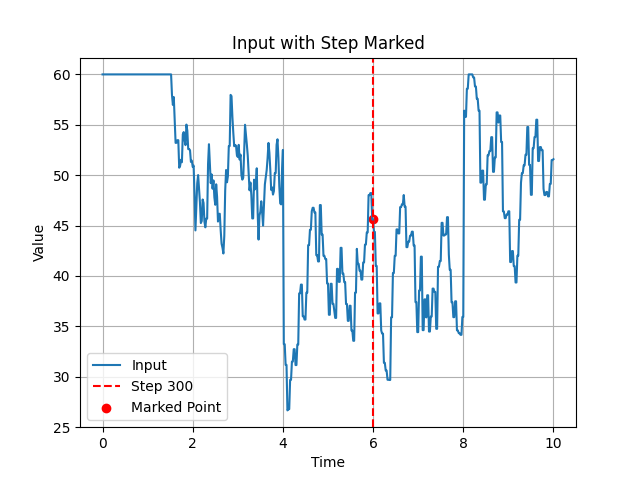
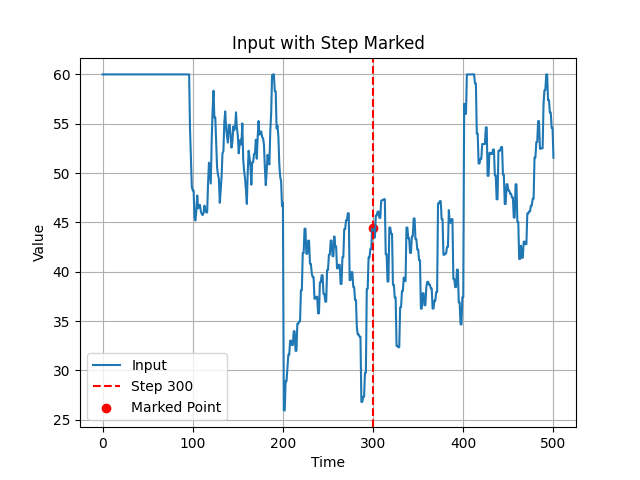
Jialiang: revise figure generalization

diff --git a/src/examples/actuator_delay_attack/linear/motor_actuator_delay.py b/src/examples/actuator_delay_attack/linear/motor_actuator_delay.py
@@ -166,3 +166,172 @@ if __name__ == "__main__":
     plt.savefig('/Users/fjl2401/CPSim/src/examples/actuator_delay_attack/results/linear/motor/input_{}.png'.format(
         'no_attack' if not attack else 'attack'))
     plt.show()
+=======
+# Ref: https://ctms.engin.umich.edu/CTMS/index.php?example=MotorSpeed&section=ControlPID
+
+import numpy as np
+
+from cpsim import Simulator
+from cpsim.controllers.PID import PID
+
+# system dynamics
+J = 0.01  # moment of inertia of the rotor
+b = 0.1  # motor viscous friction constant
+Ke = 0.01  # electromotive force constant
+Kt = 0.01  # motor torque constant
+R = 1  # electric resistance
+L = 0.5  # electric inductance
+
+A = [[-b / J, Kt / J], [-Ke / L, -R / L]]
+B = [[0], [1 / L]]
+C = [[1, 0]]
+
+x_0 = np.array([0.0, 0.0])
+
+# utils parameters
+P = 19
+I = 37
+D = 0.1
+
+control_limit = {
+    'lo': np.array([0]),
+    'up': np.array([60])
+}
+
+
+def envolve_sim(sim, ref, max_index, attack=False):
+    if attack:
+        for i in range(0, max_index + 1):
+            assert sim.cur_index == i
+            sim.update_current_ref(ref[i])
+            u = delay_attack.launch(sim.cur_u, sim.cur_index, sim.inputs)
+            sim.evolve(u=u)
+        # print results
+    else:
+        for i in range(0, max_index + 1):
+            assert sim.cur_index == i
+            sim.update_current_ref(ref[i])
+            sim.evolve()
+
+
+class Controller:
+    def __init__(self, dt):
+        self.dt = dt
+        self.pid = PID(P, I, D, current_time=-dt)
+        self.pid.setWindup(100)
+        self.pid.setSampleTime(dt)
+        self.set_control_limit(control_limit['lo'], control_limit['up'])
+
+    def update(self, ref: np.ndarray, feedback_value: np.ndarray, current_time) -> np.ndarray:
+        self.pid.set_reference(ref[0])
+        cin = self.pid.update(feedback_value[0], current_time)
+        return np.array([cin])
+
+    def set_control_limit(self, control_lo, control_up):
+        self.control_lo = control_lo
+        self.control_up = control_up
+        self.pid.set_control_limit(self.control_lo[0], self.control_up[0])
+
+    def clear(self):
+        self.pid.clear(current_time=-self.dt)
+
+
+class MotorSpeed(Simulator):
+    """
+            States: (2,)
+                x[0]: the rotational speed of the shaft
+                x[1]: electric current
+            Control Input: (1,)
+                u[0]: voltage source
+            Output:  (1,)
+                y[0]: the rotational speed of the shaft
+                Output Feedback
+            Controller: PID
+            """
+
+    def __init__(self, name, dt, max_index, noise=None):
+        super().__init__('Motor Speed ' + name, dt, max_index)
+        self.linear(A, B, C)
+        controller = Controller(dt)
+        settings = {
+            'init_state': x_0,
+            'feedback_type': 'output',
+            'controller': controller
+        }
+        if noise:
+            settings['noise'] = noise
+        self.sim_init(settings)
+
+
+if __name__ == "__main__":
+    max_index = 500
+    dt = 0.02
+    ref = [np.array([5])] * 201 + [np.array([4])] * 200 + [np.array([5])] * 100
+    noise = {
+        'process': {
+            'type': 'white',
+            'param': {'C': np.eye(2) * 0.1}
+        }
+    }
+
+    from cpsim.actuator_attack import ActuatorAttack
+
+    sim = MotorSpeed('test', dt, max_index, noise)
+    delay_attack = ActuatorAttack('delay', 10, 300, simulator=sim)
+    attack = False
+    for i in range(0, max_index + 1):
+        assert sim.cur_index == i
+        sim.update_current_ref(ref[i])
+        if attack:
+            u = delay_attack.launch(sim.cur_u, sim.cur_index, sim.inputs)
+            print('this is u', u)
+            sim.evolve(u)
+        else:
+            sim.evolve()
+
+    import matplotlib.pyplot as plt
+
+    # t_arr = np.linspace(0, 10, max_index + 1)
+    step_arr = np.arange(0, max_index + 1)
+    ref = [x[0] for x in sim.refs[:max_index + 1]]
+    y_arr = [x[0] for x in sim.outputs[:max_index + 1]]
+
+    # figure 1 plot output and reference
+    # 绘制输出值和参考值
+    plt.figure()
+    plt.plot(step_arr, y_arr, label="Output")
+    plt.plot(step_arr, ref, label="Reference")
+
+    # 在第300个步长添加标记
+    step_index = 300
+    plt.axvline(x=step_index, color='red', linestyle='--', label=f"Step {step_index}")
+    plt.scatter(step_index, y_arr[step_index], color='red', label="Marked Point")
+
+    # 图例和标题
+    plt.legend()
+    plt.title("Output and Reference with Step Marked")
+    plt.xlabel("Time")
+    plt.ylabel("Value")
+    plt.grid()
+    plt.savefig('/Users/fjl2401/CPSim/src/examples/actuator_delay_attack/results/linear/motor/state_{}.png'.format(
+        'no_attack' if not attack else 'attack'))
+    plt.show()
+
+    # figure 2 plot input
+    u_arr = [x[0] for x in sim.inputs[:max_index + 1]]
+    plt.figure()
+    plt.plot(step_arr, u_arr, label="Input")
+
+    # 在第300个步长添加标记
+    plt.axvline(x=step_index, color='red', linestyle='--', label=f"Step {step_index}")
+    plt.scatter(step_index, u_arr[step_index], color='red', label="Marked Point")
+
+    # 图例和标题
+    plt.legend()
+    plt.title("Input with Step Marked")
+    plt.xlabel("Time")
+    plt.ylabel("Value")
+    plt.grid()
+    plt.savefig('/Users/fjl2401/CPSim/src/examples/actuator_delay_attack/results/linear/motor/input_{}.png'.format(
+        'no_attack' if not attack else 'attack'))
+    plt.show()

diff --git a/src/cpsim/actuator_attack.py b/src/cpsim/actuator_attack.py
@@ -1,3 +1,4 @@
+<<<<<<< HEAD
 import numpy as np
 
 
@@ -78,3 +79,79 @@ if __name__ == "__main__":
     # attack1 = Attack('bias', np.array([1, 0, 0, 0]), 0)
     # attack2 = Attack('delay', np.array([1, 0, 0, 0]), 0)
     # print(attack1.get_C_filter())
+=======
+import numpy as np
+
+
+class ActuatorAttack:
+    def __init__(self, category, param, start_index, end_index=None, simulator=None):
+        """
+        category: 'bias', 'delay', 'replay'  todo: 'stealthy'
+        param
+        """
+        self.cat = category
+        self.param = param
+        self.start_index = start_index
+        self.end_index = end_index if end_index is not None else np.inf
+        self.cur_index = None
+        self.disabled = False
+        self.simulator = simulator
+
+    def update_param(self, param):
+        self.param = param
+
+    def disable(self):
+        self.disabled = True
+
+    def launch(self, cur_data, cur_index, history_intact_data):
+        self.cur_index = cur_index
+        # if cur_index < self.start_index or cur_index > self.end_index or self.disabled:
+        #     return cur_data
+        if self.cat == 'bias':
+            # param is the bias on each element
+            # self.simulator.evolve()
+            u = self.simulator.controller.update(self.simulator.cur_ref, self.simulator.cur_feedback,
+                                                 self.simulator.dt * self.simulator.cur_index)
+            return u + self.param
+            # return cur_control_signal + self.param
+        if self.cat == 'delay':
+            # param is the number of delay steps
+            if self.cur_index - self.start_index >= self.param:
+                delayed_index = self.cur_index - self.param
+                if delayed_index < 0:
+                    # Handle the edge case: return start_index data or some default
+                    return history_intact_data[self.start_index]
+                else:
+                    return history_intact_data[delayed_index]
+        if self.cat == 'replay':
+            # replay interval param['start'] ~ param['end']
+            delta_index = self.cur_index - self.start_index
+            offset_index = self.param['start'] + delta_index % (self.param['end'] - self.param['start'])
+            return history_intact_data[offset_index]
+
+    def get_C_filter(self):
+        if self.cat == 'bias':
+            cnt = len(self.param)
+            bias_e = np.full((cnt,), False)
+            for i in range(cnt):
+                if self.param[i] != 0:
+                    bias_e[i] = True
+            C_filter = []
+            for i in range(4):
+                if bias_e[i]:
+                    continue
+                else:
+                    tmp = [0, 0, 0, 0]
+                    tmp[i] = 1
+                    C_filter.append(tmp)
+            return C_filter
+        else:
+            raise NotImplementedError()
+
+
+if __name__ == "__main__":
+    pass
+    # attack1 = Attack('bias', np.array([1, 0, 0, 0]), 0)
+    # attack2 = Attack('delay', np.array([1, 0, 0, 0]), 0)
+    # print(attack1.get_C_filter())
+>>>>>>> 4b5c9e1 (Jialiang: revise figure generalization)
